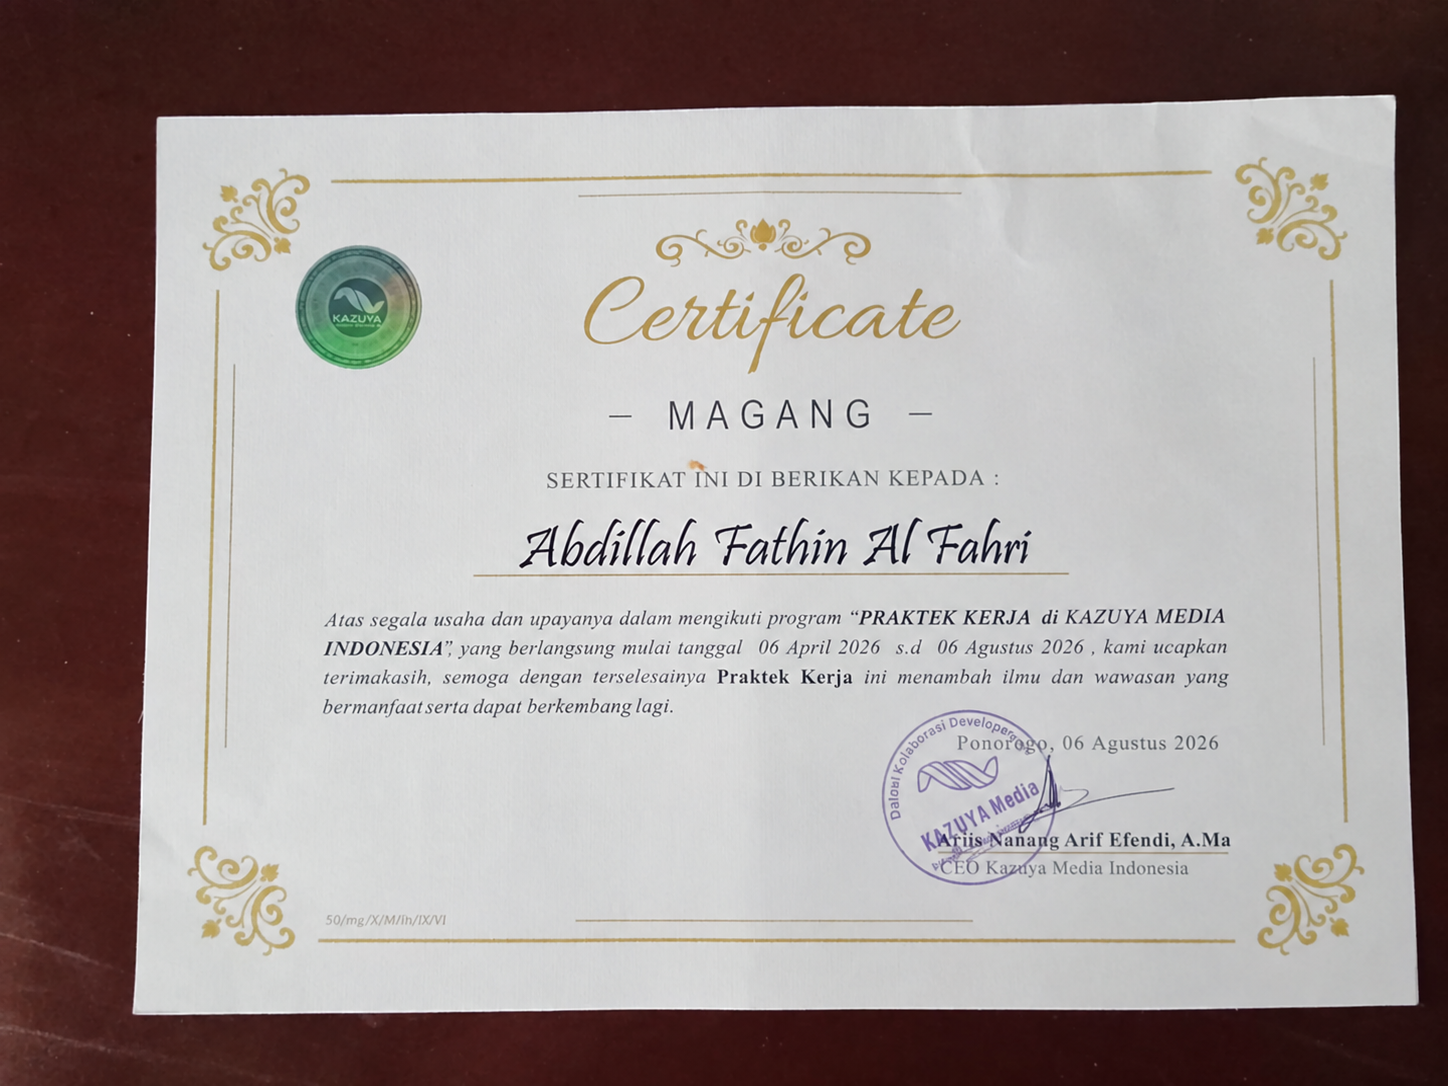
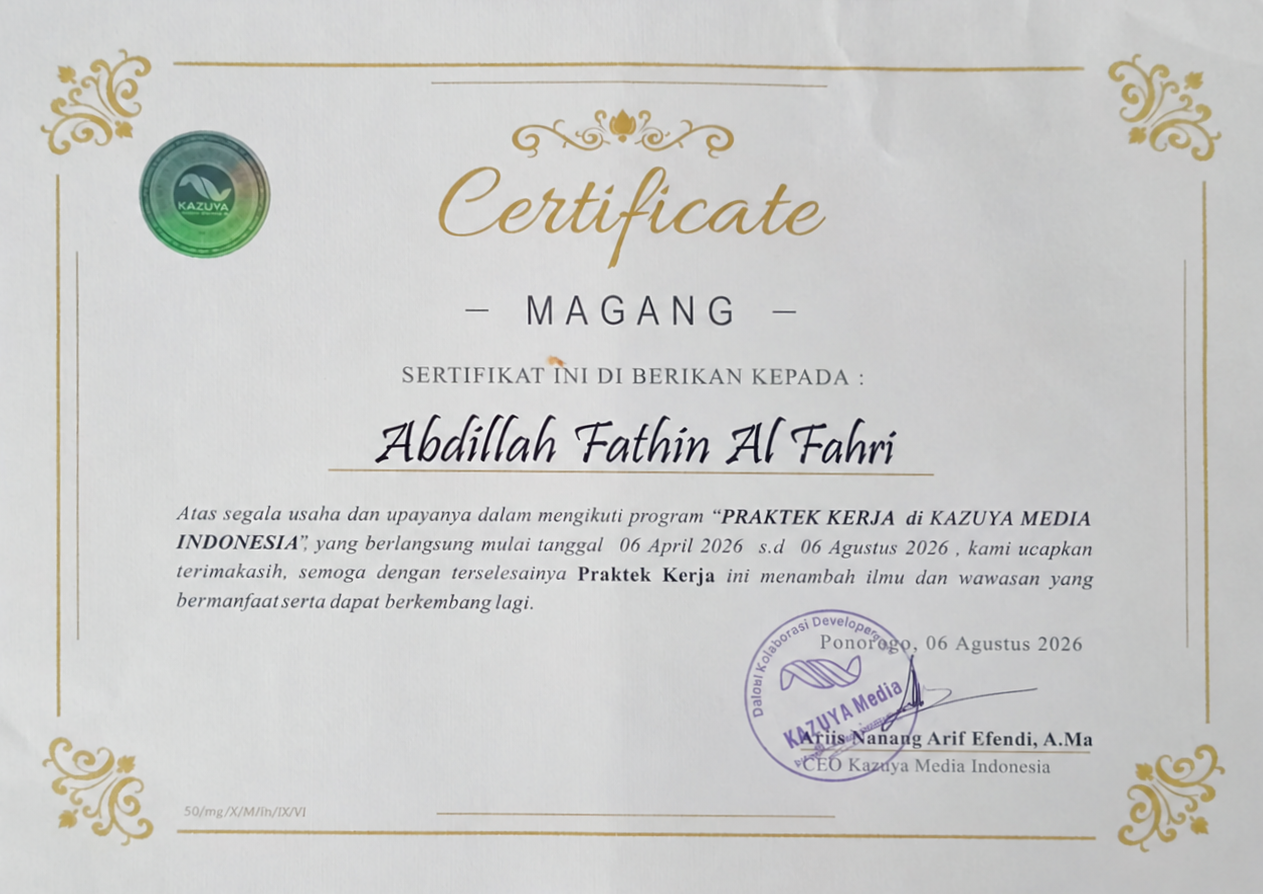
up

diff --git a/css/style.css b/css/style.css
@@ -113,30 +113,17 @@ section{ padding:52px 0 8px; scroll-margin-top:80px; }
 .timeline-desc{ font-size:0.92rem; color:#3A2C1D; max-width:62ch; }
 
 /* ---------- Sertifikat & Prestasi ---------- */
-.sertifikat-grid{ display:grid; grid-template-columns:1fr; gap:18px; }
-.sertifikat-card{
-  display:flex; gap:20px; align-items:flex-start;
-  border:1px solid var(--line); background:var(--cream-soft); border-radius:12px; padding:18px;
-}
+.sertifikat-grid{ display:grid; grid-template-columns:repeat(auto-fit,minmax(240px,1fr)); gap:18px; }
+.sertifikat-card{ border:1px solid var(--line); background:var(--cream-soft); border-radius:4px; padding:18px 20px 20px; }
 .sertifikat-thumb{
-  display:flex; align-items:center; justify-content:center; flex:0 0 auto;
-  width:190px; aspect-ratio:4/3; border-radius:8px;
-  overflow:hidden; border:1px solid var(--line); background:var(--cream);
+  display:block; aspect-ratio:4/3; border-radius:3px; margin-bottom:14px;
+  overflow:hidden; border:1px solid var(--line); background:var(--line);
 }
 .sertifikat-thumb img{ width:100%; height:100%; object-fit:cover; display:block; transition:transform .25s ease; }
 .sertifikat-thumb:hover img{ transform:scale(1.05); }
-.sertifikat-body{ flex:1 1 auto; min-width:0; }
-.sertifikat-badge{
-  display:inline-block; font-size:0.72rem; font-weight:700; text-transform:uppercase; letter-spacing:0.4px;
-  color:var(--indigo-deep); background:#E4ECFB; padding:3px 10px; border-radius:20px; margin-bottom:8px;
-}
-.sertifikat-tahun{ font-size:0.82rem; color:var(--sogan); font-weight:700; margin-bottom:6px; }
-.sertifikat-card h3{ font-size:1.02rem; margin-bottom:6px; }
-.sertifikat-card p{ font-size:0.88rem; color:#3A2C1D; margin:0; max-width:60ch; }
-@media (max-width:560px){
-  .sertifikat-card{ flex-direction:column; }
-  .sertifikat-thumb{ width:100%; max-width:260px; }
-}
+.sertifikat-tahun{ font-size:0.76rem; color:var(--sogan); font-weight:700; text-transform:uppercase; letter-spacing:0.5px; margin-bottom:6px; }
+.sertifikat-card h3{ font-size:1rem; margin-bottom:4px; }
+.sertifikat-card p{ font-size:0.88rem; color:#3A2C1D; margin:0; }
 
 /* ---------- Skills ---------- */
 .skills-grid{ display:grid; grid-template-columns:repeat(2,1fr); gap:18px; }

diff --git a/index.html b/index.html
@@ -236,12 +236,18 @@
         <a class="sertifikat-thumb" href="assets/images/sertifikat-magang-kazuya.png" target="_blank" rel="noopener">
           <img src="assets/images/sertifikat-magang-kazuya.png" alt="Sertifikat Magang di Kazuya Media Indonesia atas nama Abdillah Fathin Al Fahri">
         </a>
-        <div class="sertifikat-body">
-          <span class="sertifikat-badge">Sertifikasi</span>
-          <div class="sertifikat-tahun">6 April — 6 Agustus 2026</div>
-          <h3>Sertifikat Magang Kazuya Media Indonesia</h3>
-          <p>Sertifikat sebagai bukti telah menyelesaikan Praktik Kerja Lapangan (PKL) di Kazuya Media Indonesia dengan fokus pada bidang pengembangan website.</p>
-        </div>
+        <div class="sertifikat-tahun">6 April — 6 Agustus 2026</div>
+        <h3>Sertifikat Magang Kazuya Media Indonesia</h3>
+        <p>Sertifikat sebagai bukti telah menyelesaikan Praktik Kerja Lapangan (PKL) di Kazuya Media Indonesia dengan fokus pada bidang pengembangan website.</p>
+      </div>
+
+      <div class="sertifikat-card">
+        <a class="sertifikat-thumb" href="assets/images/sertifikat-gamelab.png" target="_blank" rel="noopener">
+          <img src="assets/images/sertifikat-gamelab.png" alt="Sertifikat Kunjungan Industri SMKN 1 Jenangan ke Gamelab Indonesia atas nama Abdillah Fathin Al Fahri">
+        </a>
+        <div class="sertifikat-tahun">5 Januari 2026</div>
+        <h3>Sertifikat Kunjungan Industri — Gamelab Indonesia</h3>
+        <p>Sertifikat sebagai peserta kegiatan Kunjungan Industri SMKN 1 Jenangan yang dilaksanakan di PT Educa Sisfomedia Indonesia (Gamelab Indonesia).</p>
       </div>
     </div>
   </section>
